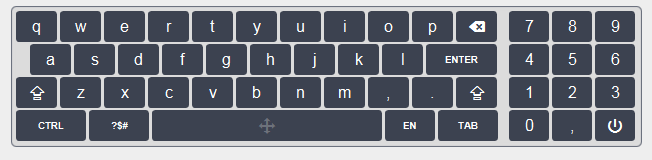
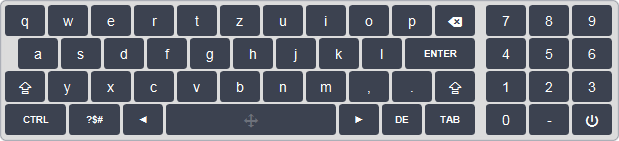
upd. readme

diff --git a/fx-onscreen-keyboard/README.md b/fx-onscreen-keyboard/README.md
@@ -3,15 +3,16 @@ fx-onscreen-keyboard
 JavaFX 8 branch (JDK8)
 (JavaFX 2.x should work but is not longer supported)
 
-Screenshots
+screenshots
 ===========
 
 ![num block ctrl] (doc/num_block.png)
 
 ![num block] (doc/num_block_ctrl.png)
 
+![layout ru] (doc/layout_ru.png)
 
-Demo
+demo
 ====
 build jar and start demo main class:
 
@@ -21,3 +22,7 @@ org.comtel.javafx.sample.SwingMainDemo
 JavaFX Demo App:
 org.comtel.javafx.sample.MainDemo
 
+Stand alone App (beta):
+org.comtel.javafx.FxStandAloneApp
+
+org.comtel.javafx.AwtStandAloneApp

diff --git a/README.md b/README.md
@@ -13,6 +13,7 @@ fx-onscreen-keyboard
 
 ![num block] (fx-onscreen-keyboard/doc/num_block_ctrl.png)
 
+![layout ru] (fx-onscreen-keyboard/doc/layout_ru.png)
 
 License
 =======
